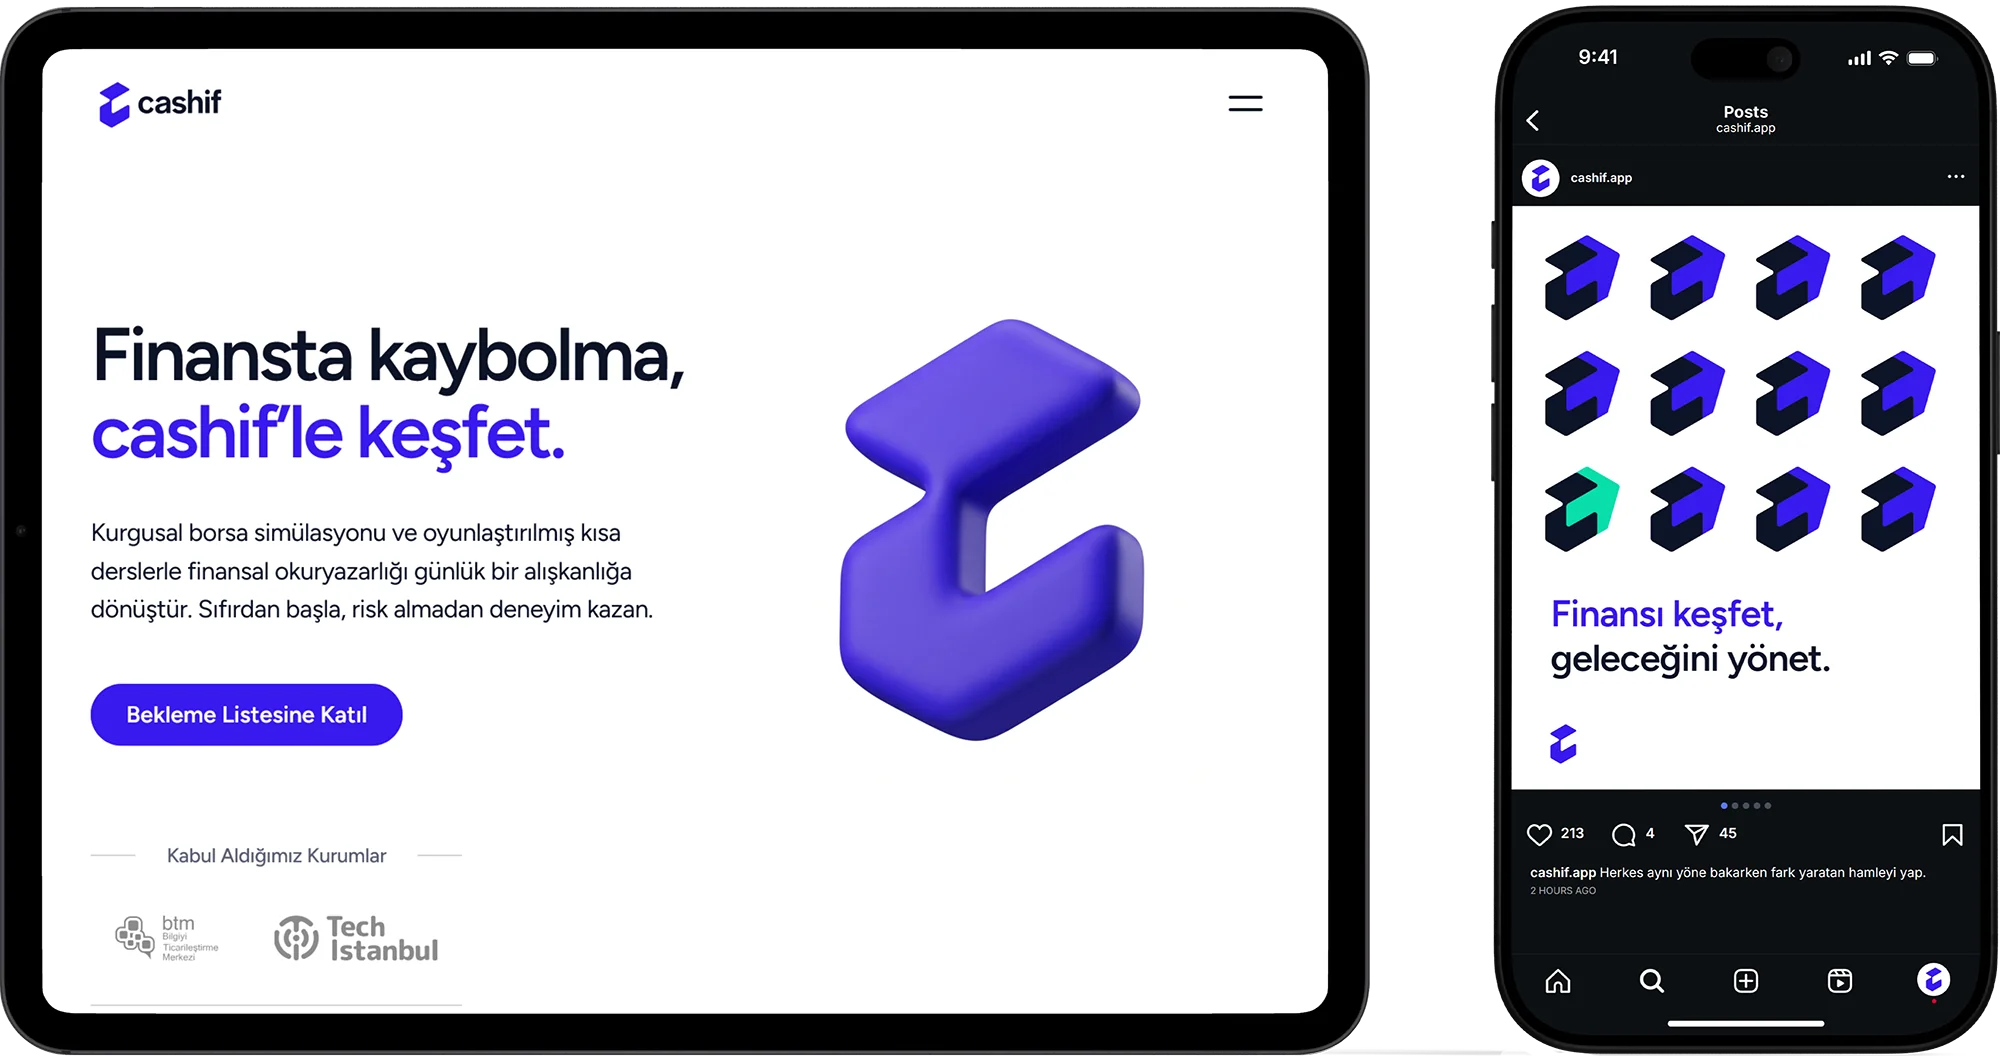
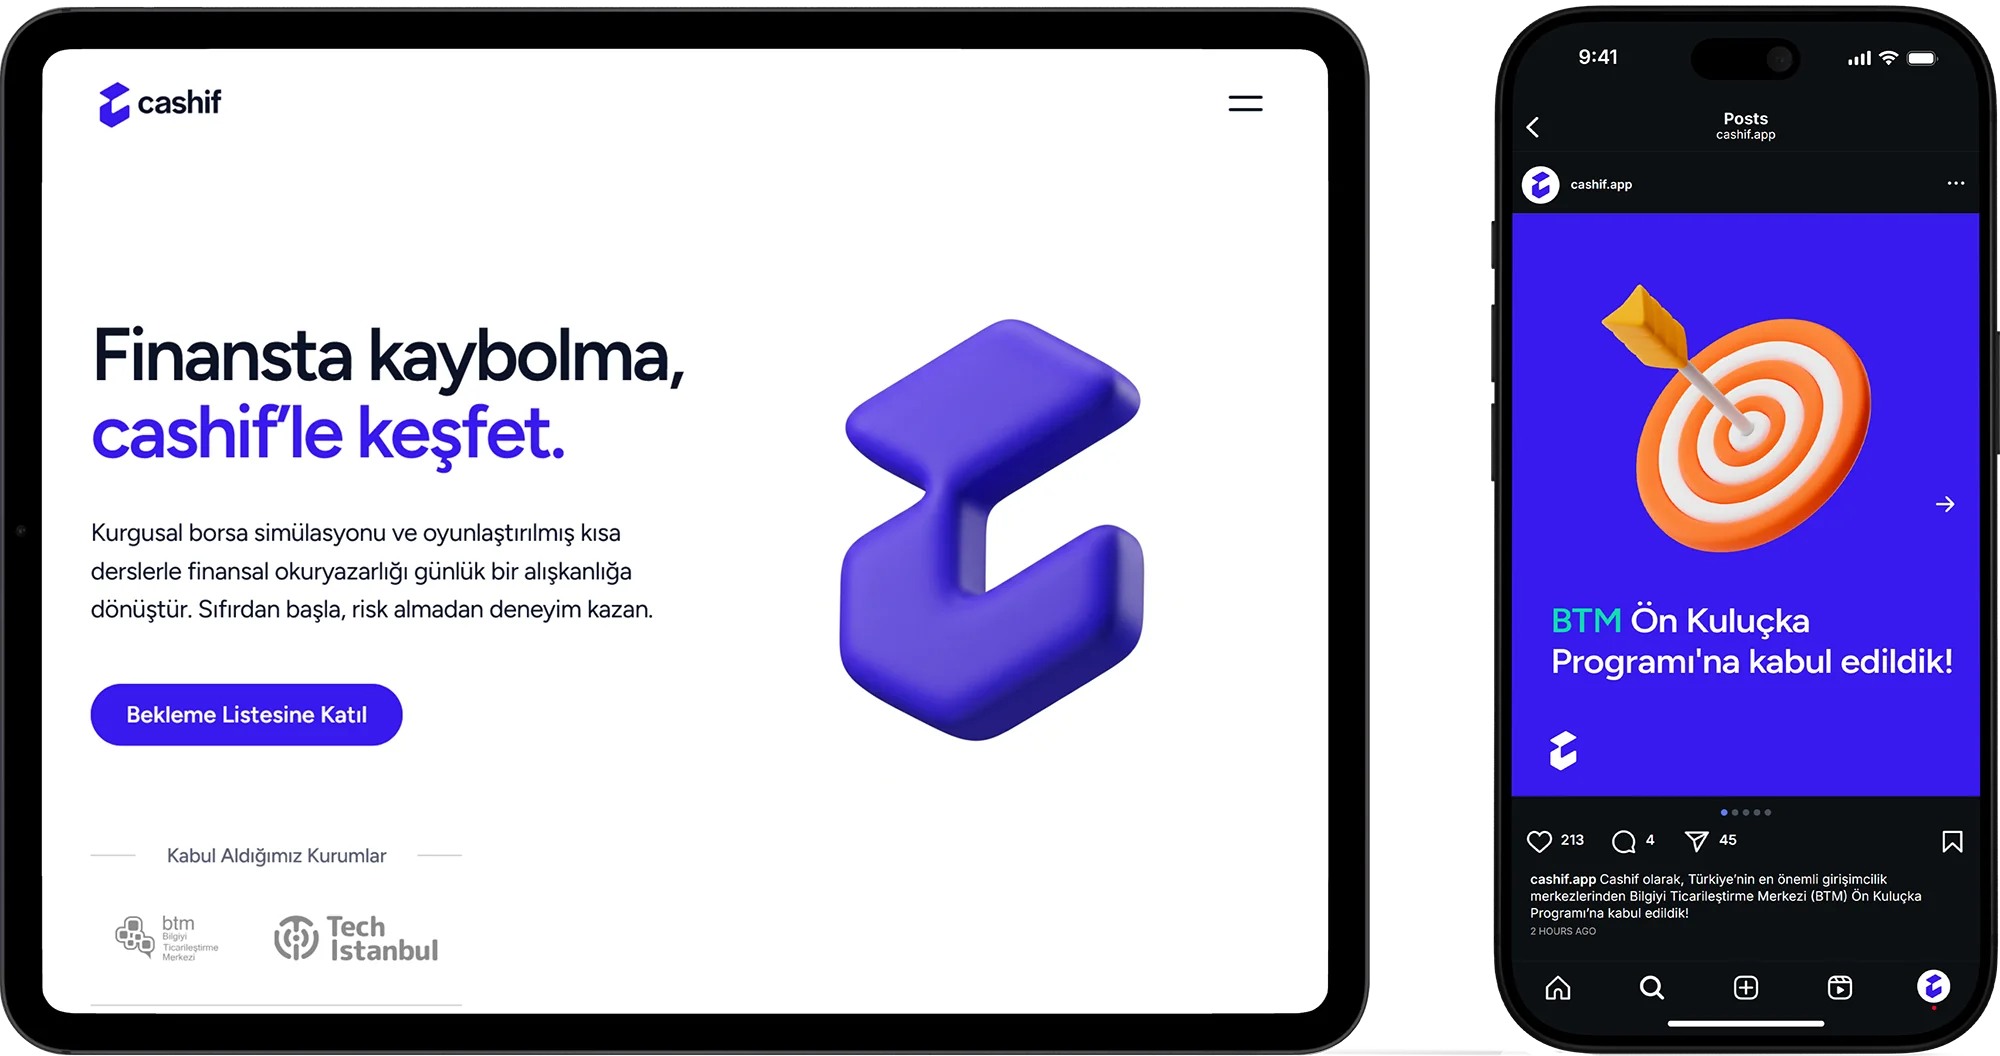
Update Cashif mockup image

diff --git a/data/projects.js b/data/projects.js
@@ -227,7 +227,7 @@ export const projects = [
         slug: 'cashif',
         date: '2026',
         image: '/images/UI_UX/Cashif/Cashif_Website_Mockup.webp',
-        imageAlt: 'Cashif landing page on an iPad and Cashif Instagram post on an iPhone, with the purple 3D logo',
+        imageAlt: 'Cashif landing page on an iPad with the purple 3D logo, and a Cashif Instagram post on an iPhone announcing BTM pre-incubation acceptance',
         colSpan: 6,
         seoDescription: 'Brand identity, landing page and social media design for Cashif, a gamified financial literacy and stock market simulation app.',
         keywords: ['Cashif', 'cashif app', 'fintech branding', 'financial literacy app', 'borsa simülasyonu', 'finansal okuryazarlık', 'landing page design', 'UI/UX design', 'Yavuz Dağdelen'],
